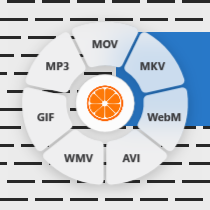
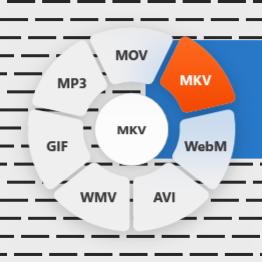
README: show the Shift, Ctrl and Alt wheels side by side

diff --git a/tests/Mandarine.Tests/WheelPreviewTests.cs b/tests/Mandarine.Tests/WheelPreviewTests.cs
@@ -15,6 +15,7 @@ public class WheelPreviewTests
     [InlineData("hot", 236, true)]
     [InlineData("dark", 28, true)]
     [InlineData("tools", 120, true)]
+    [InlineData("actions", 120, true)]
     [InlineData("empty", 236, false)]
     public void Renders_wheel_preview(string name, int baseTone, bool pointing)
     {
@@ -25,18 +26,19 @@ public class WheelPreviewTests
             try
             {
                 var tools = name == "tools";
+                var actions = name == "actions";
                 var wheel = new WheelWindow
                 {
-                    AutoHide = false, Mode = tools ? WheelMode.Tools : WheelMode.Convert,
+                    AutoHide = false, Mode = tools ? WheelMode.Tools : actions ? WheelMode.Actions : WheelMode.Convert,
                     Theme = name == "dark" ? WheelTheme.Dark : WheelTheme.Light,
                 };
                 var dpi = VisualTreeHelper.GetDpi(wheel);
                 var side = (int)Math.Round(wheel.Width * dpi.DpiScaleX);
                 wheel.ShowAt(FakeDesktop(side, baseTone), 100, 100);
-                var files = tools ? new[] { "photo.jpg" } : name == "empty" ? new[] { "notes.xyz" } : new[] { "clip.mp4" };
+                var files = tools || actions ? new[] { "photo.jpg" } : name == "empty" ? new[] { "notes.xyz" } : new[] { "clip.mp4" };
                 wheel.ShowTargets(files);
                 // Point at the second segment (clockwise from the top) to render the hot state.
-                var n = (tools ? Catalog.ToolsFor(files) : Catalog.TargetsFor(files)).Count;
+                var n = (tools ? Catalog.ToolsFor(files) : actions ? Catalog.ActionsFor(files) : Catalog.TargetsFor(files)).Count;
                 var a = -Math.PI / 2 + 2 * Math.PI / n;
                 if (pointing) wheel.PointAt(new Point(105 + 66 * Math.Cos(a), 105 + 66 * Math.Sin(a)));
                 // Let the entrance animation finish before snapshotting.

diff --git a/README.es.md b/README.es.md
@@ -7,11 +7,18 @@
 Arrastra un archivo, toca **Shift**, **Ctrl** o **Alt** y elige en una rueda. Convierte, comprime, recorta, anota y
 comparte imágenes, audio, video, PDF y archivos de Office, sin conexión, en Windows.
 
-<p align="center">
-  <img src="docs/images/wheel-convert.png" width="210" alt="La rueda de conversión sobre un video, con el logo de Mandarine en el centro">
-  &nbsp;&nbsp;
-  <img src="docs/images/wheel-tools.png" width="210" alt="La rueda de herramientas sobre una foto, apuntando a Anotar">
-</p>
+<table align="center">
+  <tr>
+    <th align="center"><kbd>Shift</kbd> · Convertir</th>
+    <th align="center"><kbd>Ctrl</kbd> · Herramientas</th>
+    <th align="center"><kbd>Alt</kbd> · Acciones</th>
+  </tr>
+  <tr>
+    <td><img src="docs/images/wheel-convert.png" width="210" alt="La rueda de conversión sobre un video, apuntando a MKV"></td>
+    <td><img src="docs/images/wheel-tools.png" width="210" alt="La rueda de herramientas sobre una foto, apuntando a Anotar"></td>
+    <td><img src="docs/images/wheel-actions.png" width="210" alt="La rueda de acciones sobre una foto, apuntando a Copiar"></td>
+  </tr>
+</table>
 
 ## Descarga
 

diff --git a/README.md b/README.md
@@ -7,11 +7,18 @@
 Drag a file, tap **Shift**, **Ctrl** or **Alt**, and pick from a wheel. Convert, compress, crop, annotate and share
 images, audio, video, PDFs and Office files, offline, on Windows.
 
-<p align="center">
-  <img src="docs/images/wheel-convert.png" width="210" alt="The conversion wheel over a video file, with the Mandarine logo in the centre">
-  &nbsp;&nbsp;
-  <img src="docs/images/wheel-tools.png" width="210" alt="The tools wheel over a photo, pointing at Annotate">
-</p>
+<table align="center">
+  <tr>
+    <th align="center"><kbd>Shift</kbd> · Convert</th>
+    <th align="center"><kbd>Ctrl</kbd> · Tools</th>
+    <th align="center"><kbd>Alt</kbd> · Actions</th>
+  </tr>
+  <tr>
+    <td><img src="docs/images/wheel-convert.png" width="210" alt="The conversion wheel over a video, pointing at MKV"></td>
+    <td><img src="docs/images/wheel-tools.png" width="210" alt="The tools wheel over a photo, pointing at Annotate"></td>
+    <td><img src="docs/images/wheel-actions.png" width="210" alt="The actions wheel over a photo, pointing at Copy"></td>
+  </tr>
+</table>
 
 ## Download
 
